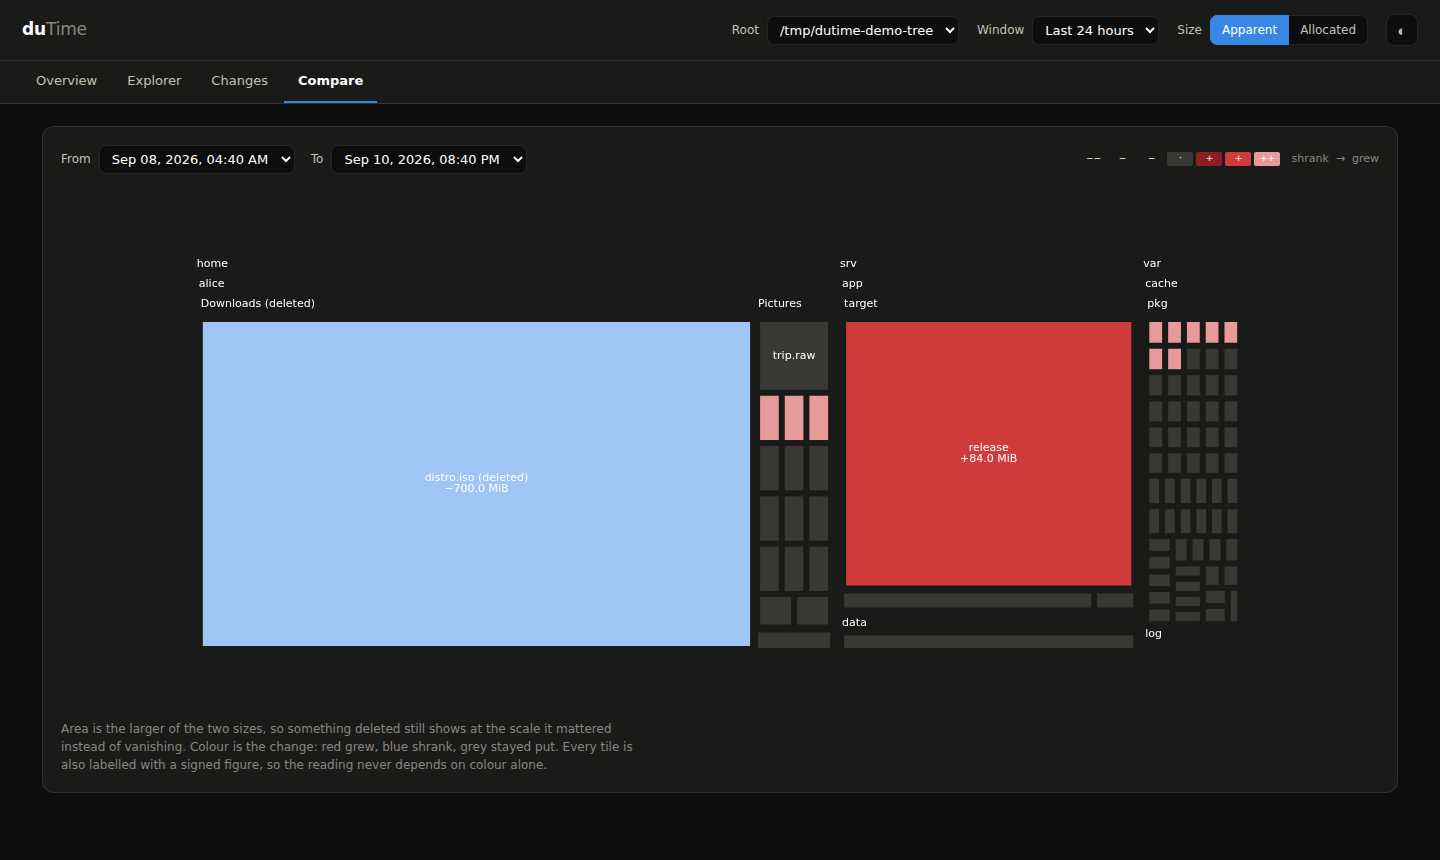
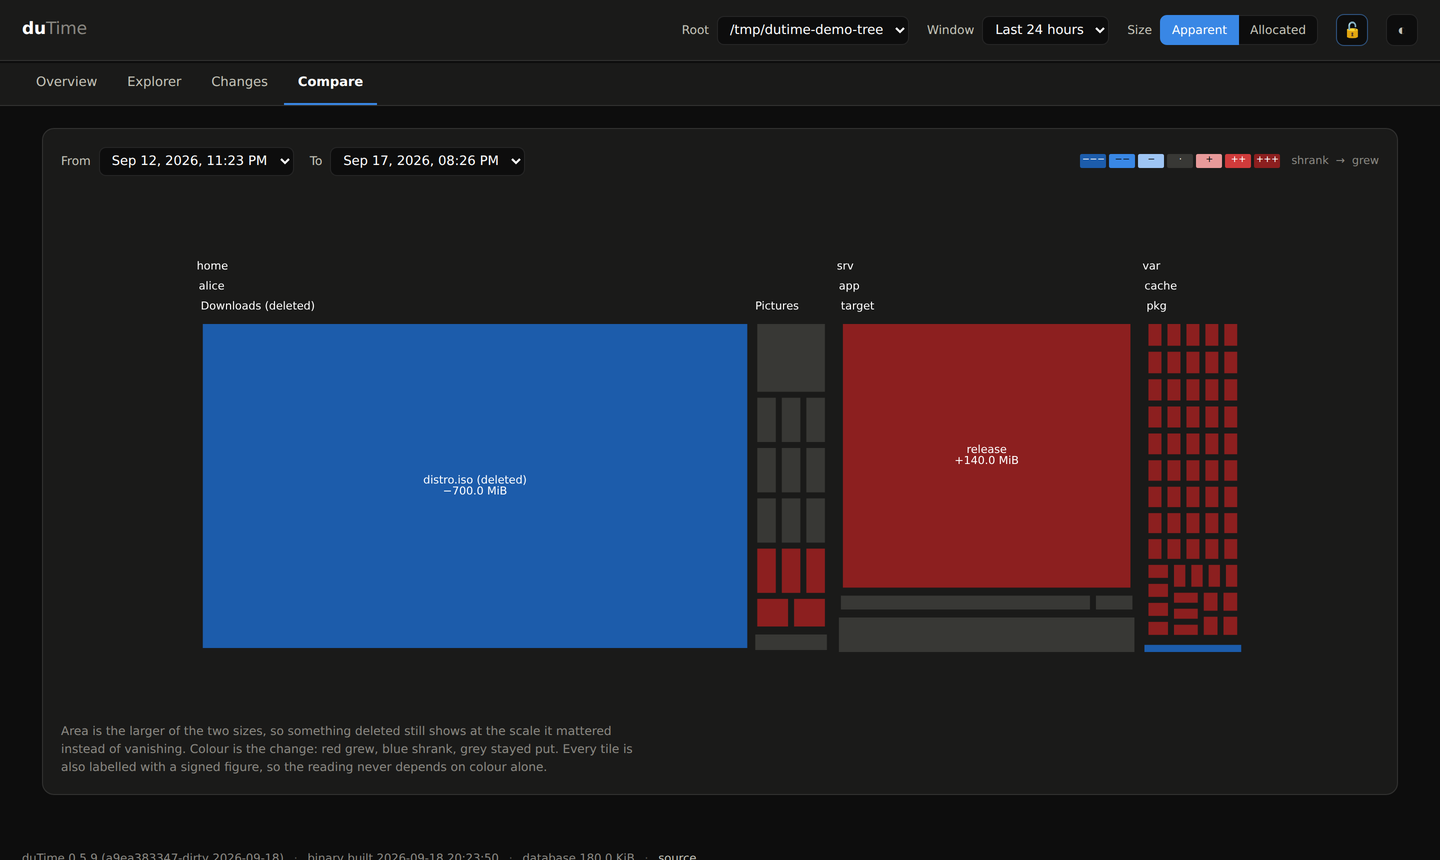
Refresh the documentation for everything since 0.5.0
Screenshots were from before the Explorer was reordered, before the diff
stopped drawing unchanged subtrees, and while the Compare legend was still
missing the three chips that explain blue -- the old hero image shows that
bug. All three are regenerated from the demo dataset.

Documents what was added since: the used-space chart's Changes/Filesystem
scale, the diff collapsing subtrees that did not move and ranking movement
above bulk, tiles labelled only where the name fits and something moved,
and full paths on hover.

Restructures the Explorer section, which had drifted out of step with the
UI: it described the panes in an order the page no longer uses, left a
sentence about the stacked area stranded at the end of a paragraph about
write-ahead logs, and introduced "both scales" before saying there were
two.

Cuts the before/after performance table. How slow the Contents pane used
to be in 0.3 is archaeology for anyone finding the project now; what
remains is what it costs today, why the treemap's cold 2 s is inherent,
and the one case that is genuinely slower -- a window containing a root's
first scan.

diff --git a/README.md b/README.md
@@ -132,8 +132,22 @@ extrapolate from. The window control moves the chart and the gainers table
 together; the projection ignores it, being fitted to every sample there is
 rather than to whichever span you are looking at.
 
-**Explorer** — a sortable listing of everything in the current directory with
-a **trend sparkline beside each row**, so you can see which of thirty siblings
+The used-space chart's vertical scale is a choice, because there are two
+questions and they want opposite axes. **Changes** fits the axis to the range
+in the window, so 200 GB of movement on a 95 TB volume is a visible slope
+rather than a flat line pinned near the top. **Filesystem** runs from zero to
+the size of the disk and answers how much room is left instead, with the
+gridlines at quarters of the disk. The caption always says which one is in
+force, and the filled area appears only under an axis that really does start
+at zero.
+
+![Overview](docs/overview.png)
+
+**Explorer** — three panes over one directory, in the order you read them:
+what is in it, how it got that way, and where the bulk sits.
+
+**Contents** is a sortable listing of everything in the directory with a
+**trend sparkline beside each row**, so you can see which of thirty siblings
 is the one creeping up before deciding which to open. A directory with more
 entries than the listing can show keeps **everything that moved** and fills
 the rest with the largest, because the entry worth seeing is rarely the
@@ -150,26 +164,20 @@ A name that is deleted and recreated — a SQLite write-ahead log, say — stays
 **one row**, with the gaps showing as the zero-byte periods they were. The
 store records each generation separately, because a location that is emptied
 and refilled is not the same bytes; the listing adds them back together,
-because "is this path growing" is the question being asked. Then the same directory
-decomposed into its largest children as a stacked area. Then a WinDirStat-style
-treemap with a time slider; drag it and the same tree redraws as it stood at
-that moment. The slider applies to the treemap alone — the panes above it
-always show the present.
+because "is this path growing" is the question being asked. The row says how
+many times the name has been recreated, which is itself worth knowing.
 
-Each pane reports its own progress — they finish at different times, and a
-single page-wide spinner that clears when the last one lands tells you
-nothing about which is still working.
-
-Both scales measure **movement**, and differ only in whose movement sets the
+The **Trend scale** control decides what the sparklines are drawn against.
+Both scales measure *movement*, and differ only in whose movement sets the
 height — every row is drawn from its own low point, because the Size column
 already answers how big a directory is.
 
-**Per row** gives each row the full height of its own cell and shows *shape*:
+*Per row* gives each row the full height of its own cell and shows **shape**:
 a directory quietly doubling from 40 MB looks as dramatic as one adding
 400 GB, which is the point when you are hunting for something starting to run
 away.
 
-**Shared** takes the largest movement on the page, so that row fills its cell
+*Shared* takes the largest movement on the page, so that row fills its cell
 top to bottom and everything else is drawn to the same ruler — a row that
 moved a tenth as much is a tenth as tall. On a volume holding a static 400 GB
 archive and a log growing by 21 GB, the log fills the cell and the archive is
@@ -181,12 +189,41 @@ directory that gained 700 GB and gave it back nets zero but still needs the
 vertical room, and a scale that ignored it would clip the line out of the
 cell. The choice is remembered and travels in the permalink.
 
+**Composition** is the same directory decomposed into its largest children as
+a stacked area, so you can see which child a rise belongs to rather than only
+that the total rose.
+
+**Blocks** is a WinDirStat-style treemap with a time slider: drag it and the
+same tree redraws as it stood at that moment. The slider applies to this pane
+alone — the two above it always show the present.
+
+Each pane reports its own progress. They finish at different times, and a
+single page-wide spinner that clears when the last one lands tells you
+nothing about which is still working.
+
 ![Explorer](docs/explorer.png)
 
 **Changes** — biggest gainers and losers over any window, exclusive or
 inclusive, exportable as CSV.
 
-**Compare** — the diff treemap at the top of this page.
+**Compare** — the diff treemap at the top of this page. Pick two moments:
+area is the larger of the two sizes, so something deleted still shows at the
+scale it mattered, and colour is the change.
+
+Most of a large tree is unchanged, and drawing it buries what is not: a week
+of a real media library produced 41,620 rectangles of which 41,486 — 99.7% —
+had a delta of exactly zero. A subtree with no movement anywhere inside it
+holds no diff information by definition, so it is drawn as a single tile at
+its own size instead of being opened up. When the list of children has to be
+cut, **what moved outranks what is merely big**, so the change cannot fall
+off the end behind larger static siblings — measured on that library, one
+directory had moved 48 GB while its 300 largest children had moved nothing
+between them.
+
+Tiles carry a name only where the whole name fits and only where something
+moved; everything else is a plain block. Hovering any tile — here or in the
+Explorer's Blocks pane — names its **full path**, which in a tree holding a
+hundred files called `movie.mkv` is the only thing that identifies it.
 
 Every view is linkable: the URL carries the path, window and comparison, so you
 can paste exactly what you are looking at into a ticket. A status line at the
@@ -462,33 +499,24 @@ Scale is entity count, not disk size. Measured on a synthetic 1.3M-entity
 volume (`cargo run --release --example bench_large`), opening the Explorer
 after a root change:
 
-| | before | after |
-|---|---|---|
-| treemap | 2.0 s | 2.0 s cold, 0.08 s warm |
-| **Contents**, ordinary window | **2.3 s** | **0.012 s** |
-| **Contents**, window containing a baseline scan | **12 s** | **0.62 s** |
-| **stacked area**, ditto | **7.5 s** | **0.64 s** |
+| pane | time |
+|---|---|
+| Blocks (treemap) | 2.0 s cold, 0.08 s warm |
+| Contents, ordinary window | 0.012 s |
+| Contents, window containing a root's first scan | 0.62 s |
+| Composition (stacked area), ditto | 0.64 s |
 
-The second and third rows are the case that bites once a volume has been
-scanned for the first time. That scan emits one event per entity — 1,463,512
-on a real Nextcloud volume — and every window containing it has to account for
-all of them. Both panes used to resolve each event to a child by climbing its
-ancestors with a database lookup per level; they now walk *down* the subtree
-once, so each event is an array index, and the event index covers the delta
-columns so reading a window is a single sequential scan.
+The treemap's cold 2 s is inherent rather than incidental: laying out a
+treemap needs the whole tree resident, so the whole tree has to be built. It
+is paid once per root and cached afterwards. Every other pane reads only the
+events inside the window, which is why they are two orders of magnitude
+faster.
 
-The Contents pane was materialising the whole tree a *second* time just to
-learn each child's size at the start of the window; it now derives that from
-the size at the end minus the window's own events, which is the invariant the
-store is built on. The stacked area was reconstructing each band's starting
-total with a recursive walk of every descendant — a million rows, nine times
-per request — and does the same thing now instead. Both also built a
-`path_id -> parent_id` map of the entire root on every request; they climb
-from the few hundred events in the window instead.
-
-What remains is the treemap's 2 s, and that one is real: a treemap has to lay
-out the whole tree, so the whole tree has to be resident. It is paid once per
-root and cached after.
+The row to know about is the third. A root's **first** scan emits one event
+per entity — 1,463,512 on a real Nextcloud volume — so any window containing
+it has to account for every one of them. Widen a window far enough back and
+that is the cost you are paying; it is bounded, but it is not the 0.012 s
+case.
 
 **Memory scales with entities** — roughly 180 bytes each plus allocator
 overhead, so ~250 MB for 500k and ~1 GB for 2.3M. The snapshot cache is
